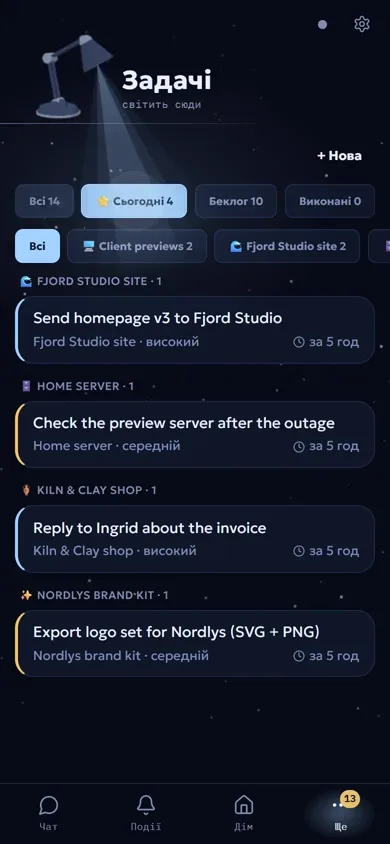
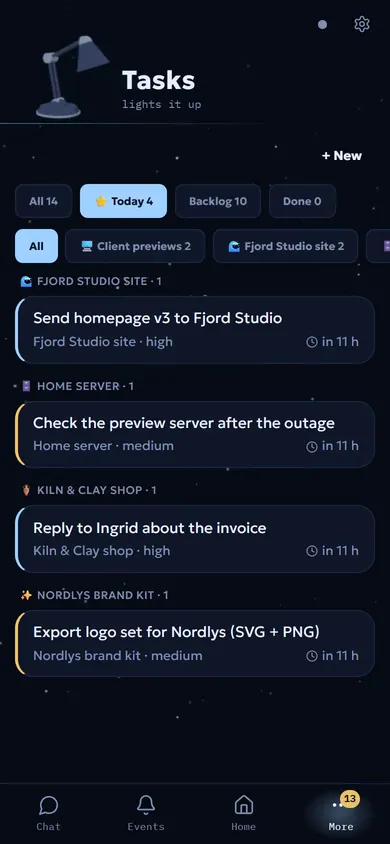
docs: screens and tour GIF re-shot with an English interface

diff --git a/README.md b/README.md
@@ -4,7 +4,7 @@ A personal AI assistant that has run every day since April 2026: a Telegram bot,
 
 ![Nox v9: chat, events and planner](assets/tour.gif)
 
-<sub>Recorded from v9.23 with a fictional owner and seeded data. The interface is in Ukrainian, the language it is used in. Full clips of all ten screens: [btwstudio.dev/work/nox](https://btwstudio.dev/work/nox).</sub>
+<sub>Recorded from v9.23 with a fictional owner and seeded data. The app is used in Ukrainian; its interface was switched to English for the recordings. Full clips of all ten screens: [btwstudio.dev/work/nox](https://btwstudio.dev/work/nox).</sub>
 
 | Chat | Events | Watchdog | Tasks and projects | Planner |
 |---|---|---|---|---|
